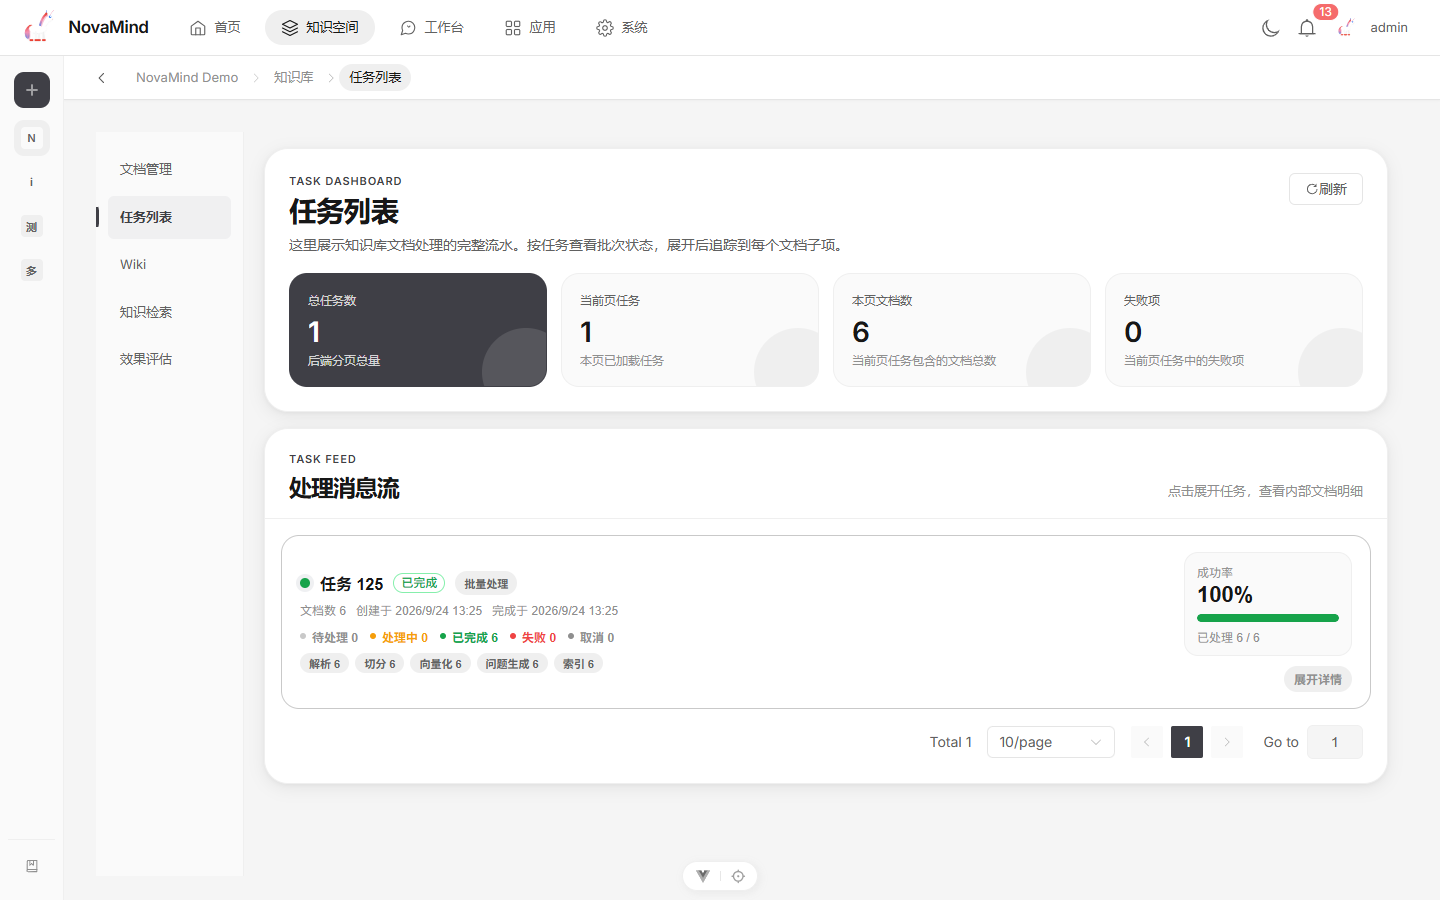
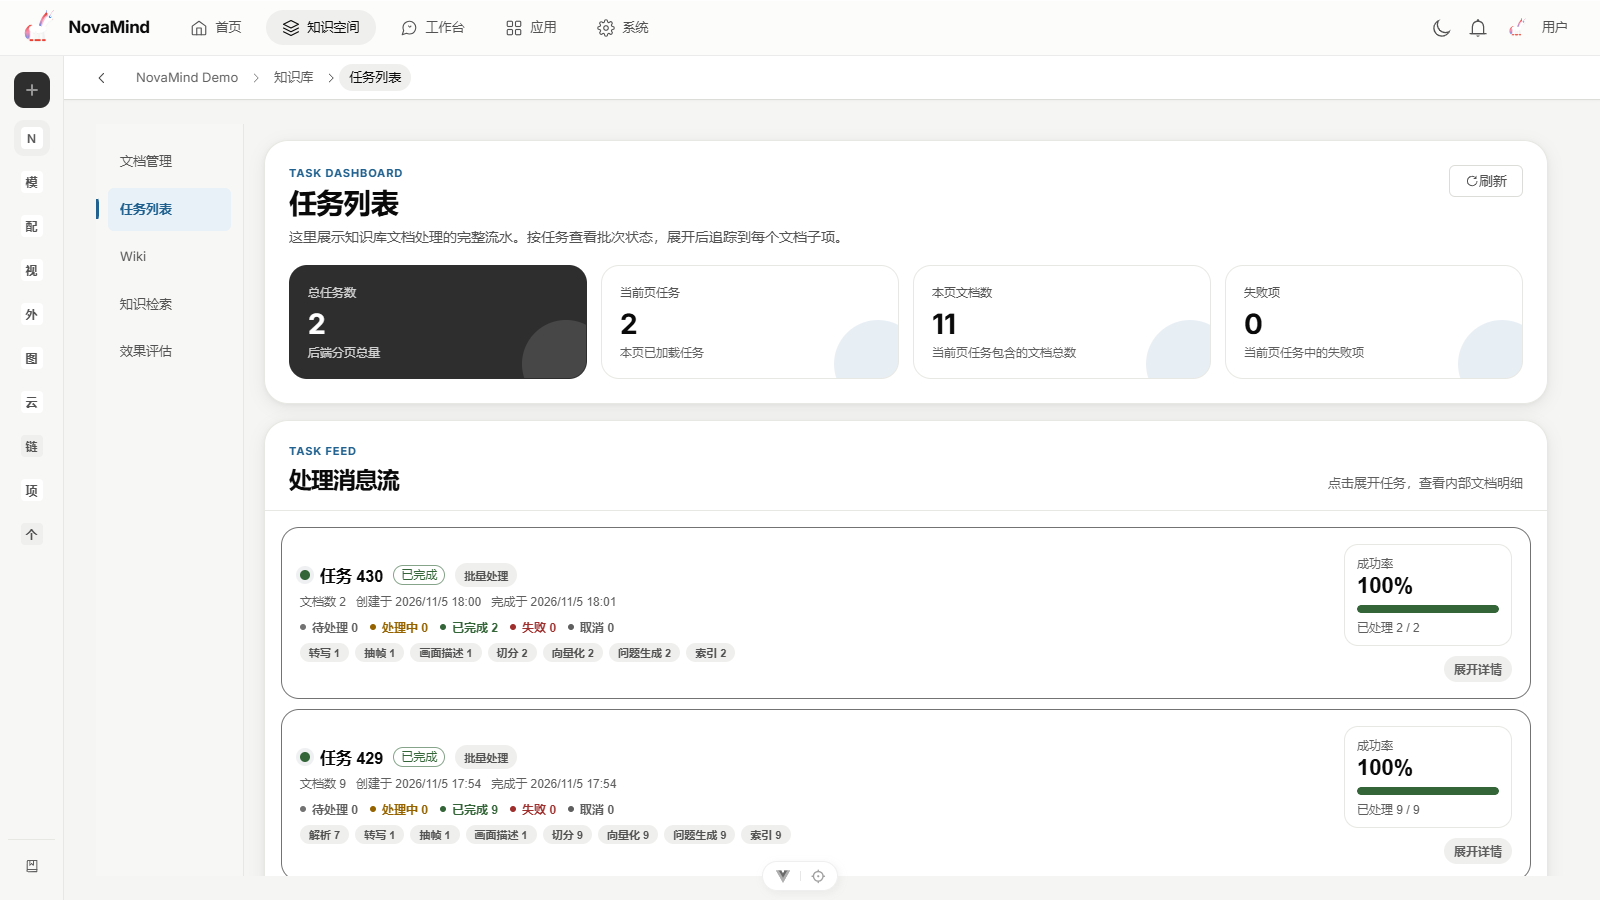
docs(readme): 多模态解析升为第一卖点并全量更新截图
- 核心能力重排：多模态文档解析置首，扩成模态矩阵表（文本/图片/音频/
  视频各自的解析方式与检索产出）+ 三个主打特性单列（视频叙事文档/
  自适应代表帧/三级指纹断点续跑）
- 截图全量重拍（NovaMind Demo 演示环境，Neutral Minimal 新 UI）：
  首屏 2x2 换为视频解析详情/多模态检索帧图/RAG 问答/知识图谱；
  新增解析配置页、视频详情、音频详情三张多模态图；其余页面同步刷新
- 平台能力补知识运营一条（四分归因+缺口转测试集）
- FAQ 长视频条目补自适应代表帧指引
- 演示素材本地合成（ffmpeg+SAPI 中文旁白），无任何个人数据入镜

diff --git a/README.md b/README.md
@@ -2,7 +2,7 @@
 
 # 🧠 NovaMind
 
-**一站式智能知识平台：知识库 · 多模态解析 · RAG 问答 · 深度研究 · Agent**
+**一站式智能知识平台：多模态解析 · 知识库 · RAG 问答 · Wiki · Agent**
 
 [![License: MIT](https://img.shields.io/badge/License-MIT-blue.svg)](./LICENSE)
 [![CI](https://github.com/SpaceshiptoMoon/NovaMind/actions/workflows/ci.yml/badge.svg)](https://github.com/SpaceshiptoMoon/NovaMind/actions/workflows/ci.yml)
@@ -12,25 +12,26 @@
 [![TypeScript](https://img.shields.io/badge/TypeScript-3178C6?logo=typescript&logoColor=white)](./frontend)
 [![Docker Compose](https://img.shields.io/badge/Docker-Compose-2496ED?logo=docker&logoColor=white)](./docker-compose.yml)
 
-**文档（PDF / 扫描件 / 图片 / 音频 / 视频）进来，带引用的答案、结构化 Wiki 和研究报告出去。**
+**PDF / 扫描件 / 图片 / 音频 / 视频进来——带引用的答案、结构化 Wiki 和研究报告出去。**
+**一个知识库，装下团队所有的文档形态。**
 
 [English](./README.en.md) | 简体中文
 
 </div>
 
 <p align="center">
-  <img src="./assets/home.png" alt="NovaMind 首页" width="800">
+  <img src="./assets/home.png" alt="NovaMind" width="800">
 </p>
 
 ---
 
 <div align="center">
 
-| RAG 问答 · 答案带引用溯源 | 知识检索 · 9 种模式 |
+| 视频解析 · 抽帧 + 转写 + 叙事文档 | 多模态检索 · 视频帧图直达播放片段 |
 | :---: | :---: |
-| <img src="./assets/rag-chat.png" width="420"> | <img src="./assets/search.png" width="420"> |
-| **知识库 Wiki · 知识图谱** | **文档解析 · 任务追踪** |
-| <img src="./assets/wiki-graph.png" width="420"> | <img src="./assets/tasks.png" width="420"> |
+| <img src="./assets/video-detail.png" width="420"> | <img src="./assets/search-frames.png" width="420"> |
+| **RAG 问答 · 答案带引用溯源** | **知识图谱 · Wiki 自动互链** |
+| <img src="./assets/rag-chat.png" width="420"> | <img src="./assets/wiki-graph.png" width="420"> |
 
 </div>
 
@@ -39,6 +40,10 @@
 
 - [项目定位](#项目定位)
 - [核心能力](#核心能力)
+  - [多模态文档解析](#-多模态文档解析)
+  - [知识库引擎](#-知识库引擎)
+  - [智能应用](#-智能应用)
+  - [平台能力](#-平台能力)
 - [文档处理管道](#文档处理管道)
 - [知识库 Wiki](#知识库-wiki)
 - [适合什么场景](#适合什么场景)
@@ -67,9 +72,11 @@
 
 ## 项目定位
 
-很多知识库项目只覆盖“上传文档并问答”这一段链路。NovaMind 试图覆盖更完整的工作流：
+很多知识库项目只覆盖「上传文本文档并问答」这一段链路。现实中的团队知识形态远不止文本：产品演示视频、评审会议录音、架构图截图、扫描件合同……它们应该进**同一个**检索体系，而不是散落在网盘和聊天记录里。
 
-- 从空间、知识库、文档上传到**多模态解析**（文本 / 图片 / 视频 / 音频）、切分、向量化、索引
+NovaMind 试图覆盖更完整的工作流：
+
+- 从空间、知识库、文档上传到**多模态解析**（文本 / 图片 / 音频 / 视频统一进检索体系）、切分、向量化、索引
 - 从检索到 RAG 问答，再到深度研究报告生成
 - 从普通聊天到带工具调用、MCP 扩展和技能市场的 Agent
 - 从能力搭建到测试集评测、人工复核和结果导出
@@ -79,6 +86,35 @@
 
 ## 核心能力
 
+### 📄 多模态文档解析
+
+**这是 NovaMind 的核心差异点：四种模态、一条管道、一个检索体系。**
+
+| 模态 | 解析方式 | 检索产出 |
+| --- | --- | --- |
+| **文本** | PDF（DeepDoc 逐框文字层 + OCR 融合的 full 模式）、DOCX、TXT、MD、CSV、HTML、JSON、EPUB | 全文分块 + 表格 HTML 内联 |
+| **图片** | VLM 视觉理解（生成结构化描述）或 DeepDoc OCR 提取图内文字 | 描述文本，支持图像语义检索 |
+| **音频** | 本地 **faster-whisper**（免费、无 API Key、部署期预装）或云端 ASR | 带时间戳的转写文本 |
+| **视频** | 8 种抽帧策略 + 逐帧 VLM 描述 + 音轨 ASR **双轨融合** + LLM 步骤综合 | 帧描述 + 转写 + 章节化叙事文档 |
+
+三个拿出来单独讲的特性：
+
+- **视频「叙事文档」**：解析完成后，LLM 把碎片化的帧描述合成为章节化连贯叙事（全片梗概 + 章节时间轴）。问答命中视频内容时自动附带所在章节的摘要——「这个视频讲了什么」得到的是连贯回答，而不是帧描述的拼接
+- **自适应代表帧策略**：粗采候选 + 全局最远点采样选帧，用最少的帧覆盖全片内容——1 小时的视频不必机械抽 720 帧，VLM 调用成本大幅下降
+- **解析断点续跑**：解析 → 切分 → 向量化三级内容指纹，重试时指纹匹配即复用已付费的 VLM / OCR / ASR / Embedding 产物；解析配置变更自动级联失效下游
+
+<p align="center">
+  <img src="./assets/parsing-config.png" alt="知识库解析配置 · 四种模态与解析策略" width="760">
+</p>
+
+<p align="center">
+  <img src="./assets/video-detail.png" alt="视频文档详情 · 叙事文档 / 帧描述分块 / 原文播放" width="760">
+</p>
+
+<p align="center">
+  <img src="./assets/tasks.png" alt="任务列表 · 多模态流水线节点级进度（解析/转写/抽帧/画面描述/切分/向量化/索引）" width="760">
+</p>
+
 ### 📚 知识库引擎
 
 - **知识空间与知识库管理**：多空间隔离、成员协作（OWNER / ADMIN / EDITOR / VIEWER 分层权限）、知识库级解析配置和文档全生命周期管理
@@ -87,40 +123,22 @@
 - **知识库评测**：测试集管理、自动评测、人工打分、报告导出，验证知识库真实效果；QA 问答可一键沉淀进测试集，两次评测报告可对比查看用例级退化
 
 <p align="center">
-  <img src="./assets/documents.png" alt="文档管理 · 演示知识库「AI 知识手册」" width="760">
-</p>
-
-### 📄 多模态文档解析
-
-- **文本文档**：PDF（DeepDoc 逐框文字层 + OCR 融合的 full 模式 / 轻量 plain 模式）、DOCX、TXT、MD、CSV、HTML、JSON
-- **图片理解**：VLM 生成图片描述，或 DeepDoc OCR 提取图内文字
-- **视频解析**：8 种策略预设（固定间隔 / 场景切换 / 去重抽帧 × 逐帧 / 多帧分组 / 帧序列伪视频 / 视频切片直输 / 自适应代表帧——粗采候选 + 全局最远点采样选帧，用最少帧代表全片），音轨 ASR 转写双轨融合、LLM 步骤综合，双锚点时间轴对齐
-- **视频叙事文档**：解析完成后可把碎片帧描述合成为章节化连贯叙事（全片梗概 + 章节时间轴），与碎片块并存；问答命中视频内容时自动附带所在章节摘要——「这个视频讲了什么」直接得到连贯回答而非碎片拼接
-- **音频转写**：默认本地 **faster-whisper**（免费、无需 API Key、部署期预装模型），也可切换已配置的云端 ASR（OpenAI Whisper / DashScope Paraformer）
-- **公式与表格**：PDF 公式识别（pix2text-mfr INT8）、表格结构还原与 HTML 内联
-- **断点续跑**：解析 → 切分 → 向量化三级内容指纹，重试时指纹匹配即复用已付费的解析产物，配置变更自动级联失效
-
-<p align="center">
-  <img src="./assets/document-detail.png" alt="文档详情 · 解析结果与分块预览" width="760">
+  <img src="./assets/documents.png" alt="文档管理 · 多模态文档混排的知识库" width="760">
 </p>
 
 ### 🤖 智能应用
 
-- **RAG 问答**：基于知识库的多轮问答，支持会话配置与上下文压缩，答案带引用溯源——右侧引用面板可定位原文分块，PDF 引用点击「原文定位」直达原文页并高亮命中区域（页码 + bbox 坐标级溯源）；命中视频分块时自动附带所在章节的连贯叙事摘要作为生成上下文
+- **RAG 问答**：基于知识库的多轮问答，支持会话配置与上下文压缩，答案带引用溯源——引用面板可定位原文分块，PDF 引用点击「原文定位」直达原文页并高亮命中区域（页码 + bbox 坐标级溯源）；命中视频分块时自动附带所在章节的连贯叙事摘要作为生成上下文
 - **深度研究**：联合内部知识库与外部搜索（数据源可插拔：Tavily / SerpAPI / DuckDuckGo），分步骤生成研究报告
-- **Agent**：工具调用、MCP Server 接入、执行轨迹回放
+- **Agent**：工具调用（知识检索 / 附件 / Web 搜索）、MCP Server 接入、执行轨迹回放
 - **技能广场**：技能上传、审核、安装与市场化分发
 - **应用中心**：面向具体业务场景封装 AI 能力（如简历挖掘）
-
-<p align="center">
-  <img src="./assets/agents.png" alt="智能体对话 · 知识检索助手" width="760">
-</p>
 
 ### 🛡 平台能力
 
 - **任务系统**：基于 ARQ 的异步任务编排——批量处理、进度节点可视化、取消 / 重试、僵尸任务清理、崩溃后孤儿恢复
 - **实时通知**：WebSocket 推送 + 轮询兜底，解析完成 / 失败 / 取消即时触达
-- **空间洞察**：问答点赞 / 点踩、零命中与低分查询聚合看板，定位知识缺口指导文档补充
+- **知识运营**：问答点赞 / 点踩、零命中与低分查询聚合看板，四分归因（内容缺口 / 检索失败 / 内容失效 / 权限边界）与缺口转测试集闭环
 - **多模型接入**：LLM / Embedding / Rerank / VLM / ASR 五类模型，OpenAI 兼容协议即插即用，连接测试与密钥加密存储
 
 ## 文档处理管道
@@ -158,7 +176,7 @@
                                  │
                                  ├─▶ [[链接]] 自动解析 + 知识图谱构建
                                  ├─▶ ES 同步（wp-* chunk，检索加权 1.3x）
-                                 └─▶ 质量巡检（六类 lint + 健康分）
+                                 └─▶ 质量巡检（六类 lint + 健康分 0-100）
 ```
 
 <p align="center">
@@ -176,9 +194,9 @@
 
 ## 适合什么场景
 
-- 团队或组织内部知识库，需要多空间隔离和成员权限管理
-- 文档形态多样：扫描件 PDF、图片、会议录音、教学视频都需要进同一个检索体系
+- 团队或组织内部知识库，文档形态多样：**扫描件 PDF、架构图、会议录音、产品演示视频**需要进同一个检索体系
 - 需要完整的文档处理链路：上传 → 解析 → 切分 → 向量化 → 检索 → 问答，且每一步可观测、可恢复
+- 需要多空间隔离和成员权限管理
 - 需要把 RAG 问答、深度研究、Agent 工具调用串成一条工作流，而不是零散的工具拼凑
 - 需要评测体系（测试集、自动评测、人工打分）来验证知识库效果
 - 愿意投入一些基础设施成本（MySQL、Redis、Elasticsearch、MinIO）来换取能力的完整性和自由度
@@ -640,7 +658,7 @@ Docker 一键部署后，用户名 `admin`，初始密码在根目录 `.env` 的
 <details>
 <summary><b>长视频解析后只覆盖了前几分钟？</b></summary>
 
-视频抽帧受「最大帧数」（`max_frames`，默认 60）封顶，抽满即停而非均匀采样全片。1 小时视频按 5 秒间隔需要约 720 帧，请在知识库解析配置中把最大帧数调大（长视频建议 300+）。注意 VLM 描述耗时随帧数线性增长；解析完成后也可对重要视频按需生成「叙事文档」（章节化连贯叙事），把碎片描述浓缩为可直接问答的全片知识文档。
+视频抽帧受「最大帧数」（`max_frames`，默认 60）封顶，抽满即停而非均匀采样全片。1 小时视频按 5 秒间隔需要约 720 帧，请在知识库解析配置中把最大帧数调大（长视频建议 300+），或选择「自适应代表帧」策略（粗采候选 + 全局最远点采样，用最少帧覆盖全片）。注意 VLM 描述耗时随帧数线性增长；解析完成后也可对重要视频按需生成「叙事文档」（章节化连贯叙事），把碎片描述浓缩为可直接问答的全片知识文档。
 </details>
 
 <details>
